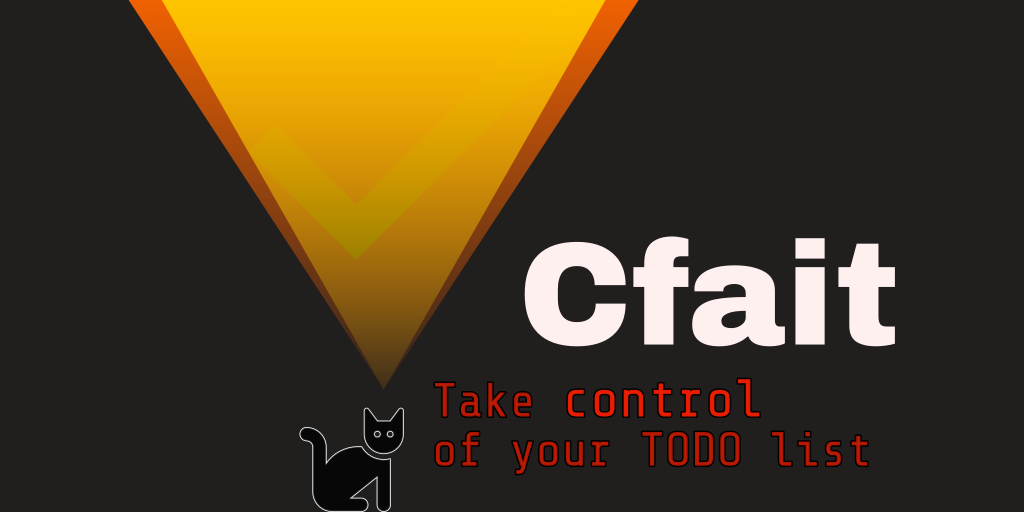
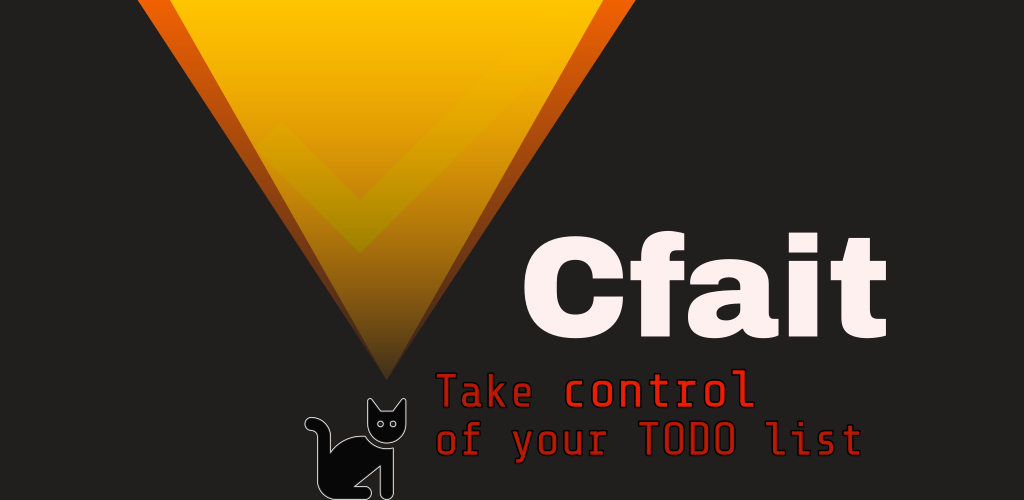
chore: fastlane stuff for Android release

diff --git a/README.md b/README.md
@@ -5,8 +5,7 @@
 
 It features a modern **GUI (Graphical UI)**, an efficient **TUI (Terminal UI)**, and a native **Android** client.
 
-![logo](https://commons.wikimedia.org/wiki/Special:FilePath/Cfait_icon_v2.svg)
-> The icon
+![featurethingy](https://commons.wikimedia.org/wiki/Special:FilePath/Cfait_featureGraphic_(hardcoded_text).svg)
 
 ![Cfait GUI Screenshot](https://commons.wikimedia.org/wiki/Special:FilePath/Cfait_task_manager_v0.3.0_screenshot_(GUI).png)
 > The Graphical Interface in v0.3.0 <small>([history](https://commons.wikimedia.org/wiki/Category:Screenshots_of_Cfait_(GUI)))</small>
